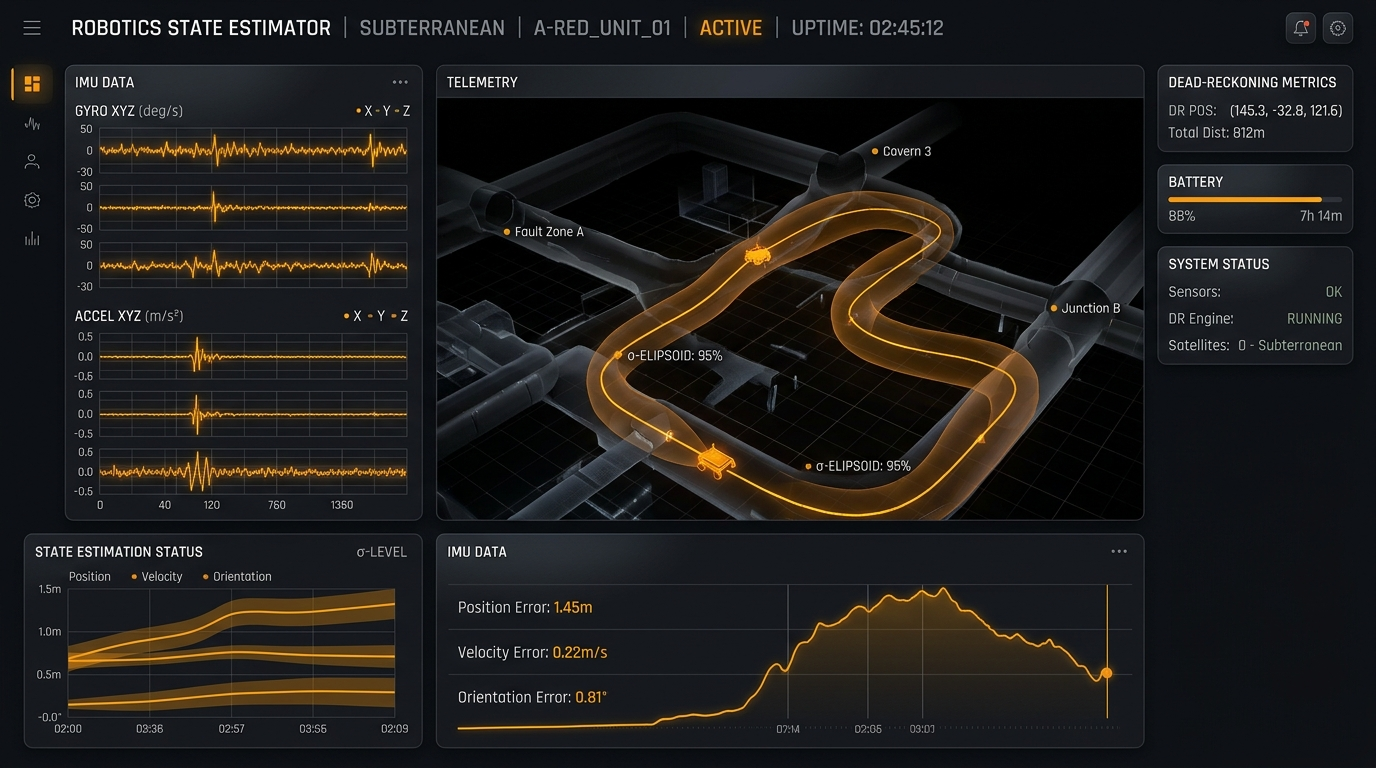
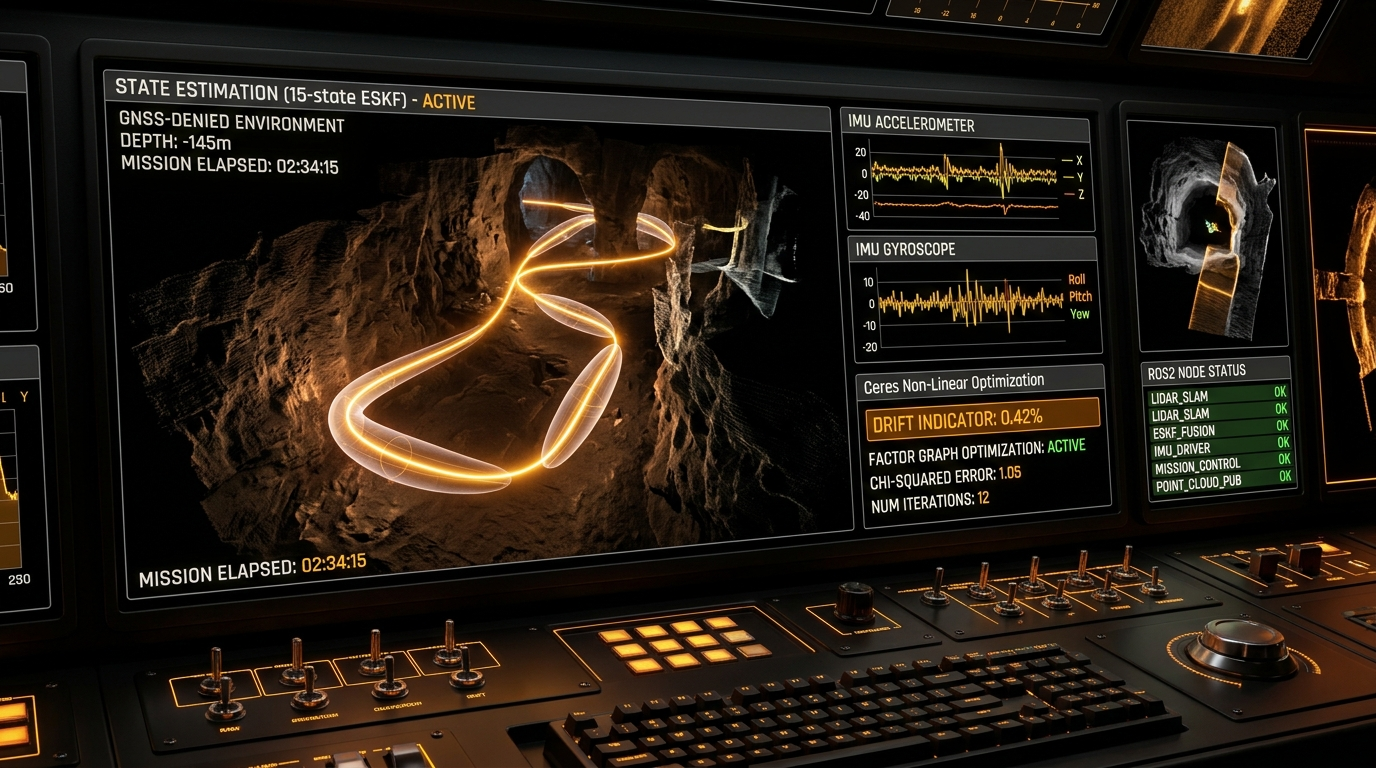
feat: update project images with ultra-high-definition dark studio UI visuals

diff --git a/index.html b/index.html
@@ -351,7 +351,7 @@
           <article class="project-card" data-project="navigo" tabindex="0" role="button"
             aria-label="View NAViGO Project details">
             <div class="project-image-wrap">
-              <img src="assets/navigo.png" alt="NAViGO Autonomous Driving UI" loading="lazy">
+              <img src="assets/navigo.jpg" alt="NAViGO Autonomous Driving UI" loading="lazy">
             </div>
 
             <div class="project-title-row">
@@ -380,7 +380,7 @@
           <article class="project-card" data-project="protolink" tabindex="0" role="button"
             aria-label="View ProtoLink Project details">
             <div class="project-image-wrap">
-              <img src="assets/protolink.png" alt="ProtoLink Network Protocol Telemetry" loading="lazy">
+              <img src="assets/protolink.jpg" alt="ProtoLink Network Protocol Telemetry" loading="lazy">
             </div>
 
             <div class="project-title-row">
@@ -409,7 +409,7 @@
           <article class="project-card" data-project="virtual_tryon" tabindex="0" role="button"
             aria-label="View Virtual Try-On Project details">
             <div class="project-image-wrap">
-              <img src="assets/virtual_tryon.png" alt="Virtual Try-On Fashion Catalog UI" loading="lazy">
+              <img src="assets/virtual_tryon.jpg" alt="Virtual Try-On Fashion Catalog UI" loading="lazy">
             </div>
 
             <div class="project-title-row">
@@ -1145,7 +1145,7 @@
 
       <div
         style="border-radius: var(--radius-inner); overflow: hidden; margin-bottom: 18px; border: 1px solid var(--border);">
-        <img id="projectModalImage" src="assets/navigo.png" alt="Project Preview"
+        <img id="projectModalImage" src="assets/navigo.jpg" alt="Project Preview"
           style="width: 100%; height: auto; display: block;">
       </div>
 

diff --git a/main.js b/main.js
@@ -139,7 +139,7 @@ document.addEventListener('DOMContentLoaded', () => {
           <li>Integrated Kalman-filtered multi-camera sensor fusion to deliver deterministic obstacle velocity vectors and proactive collision alerts.</li>
         </ul>
       `,
-      image: 'assets/navigo.png',
+      image: 'assets/navigo.jpg',
       link: 'https://github.com/anisarve2006'
     },
     protolink: {
@@ -156,7 +156,7 @@ document.addEventListener('DOMContentLoaded', () => {
           <li>Designed real-time terminal telemetry and visual throughput graphs monitoring congestion windows (cwnd) and throughput metrics under varying channel loads.</li>
         </ul>
       `,
-      image: 'assets/protolink.png',
+      image: 'assets/protolink.jpg',
       link: 'https://github.com/anisarve2006'
     },
     virtual_tryon: {
@@ -173,7 +173,7 @@ document.addEventListener('DOMContentLoaded', () => {
           <li>Architected resilient backend state management using Upstash Redis atomic locks (<code>SET NX EX</code>) and WebSockets for rock-solid concurrency.</li>
         </ul>
       `,
-      image: 'assets/virtual_tryon.png',
+      image: 'assets/virtual_tryon.jpg',
       link: 'https://github.com/anisarve2006'
     },
     eskf_inertial: {
